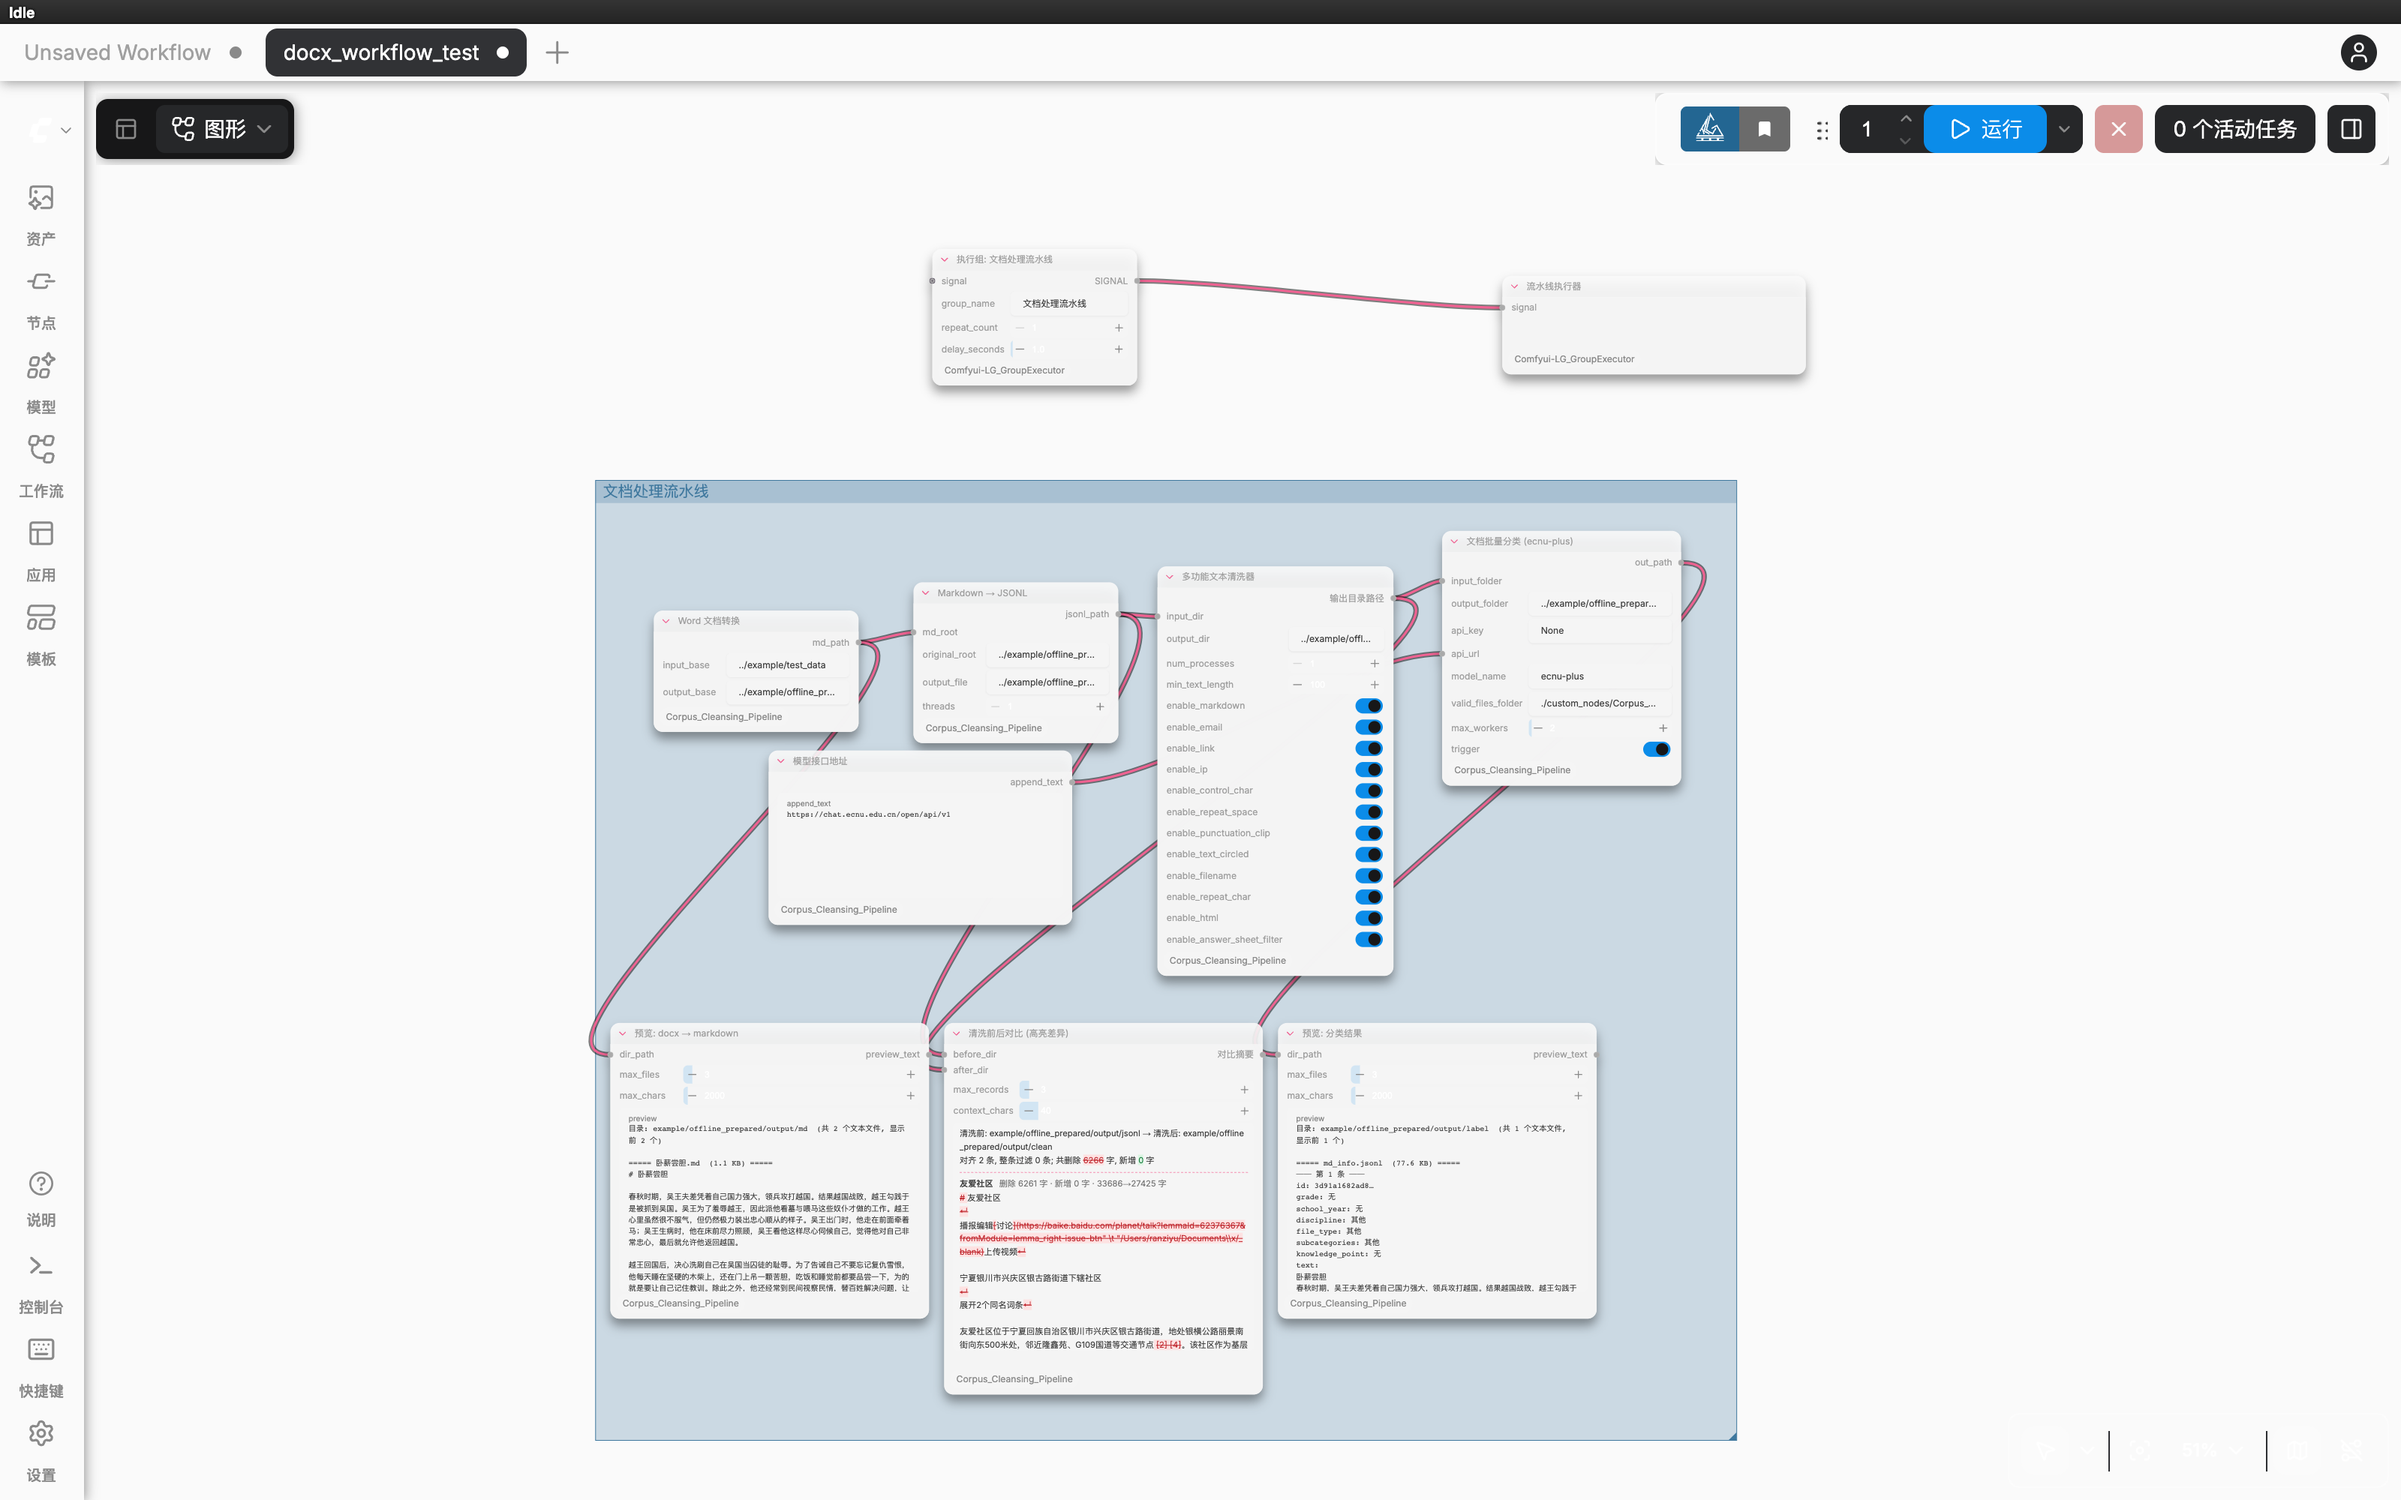
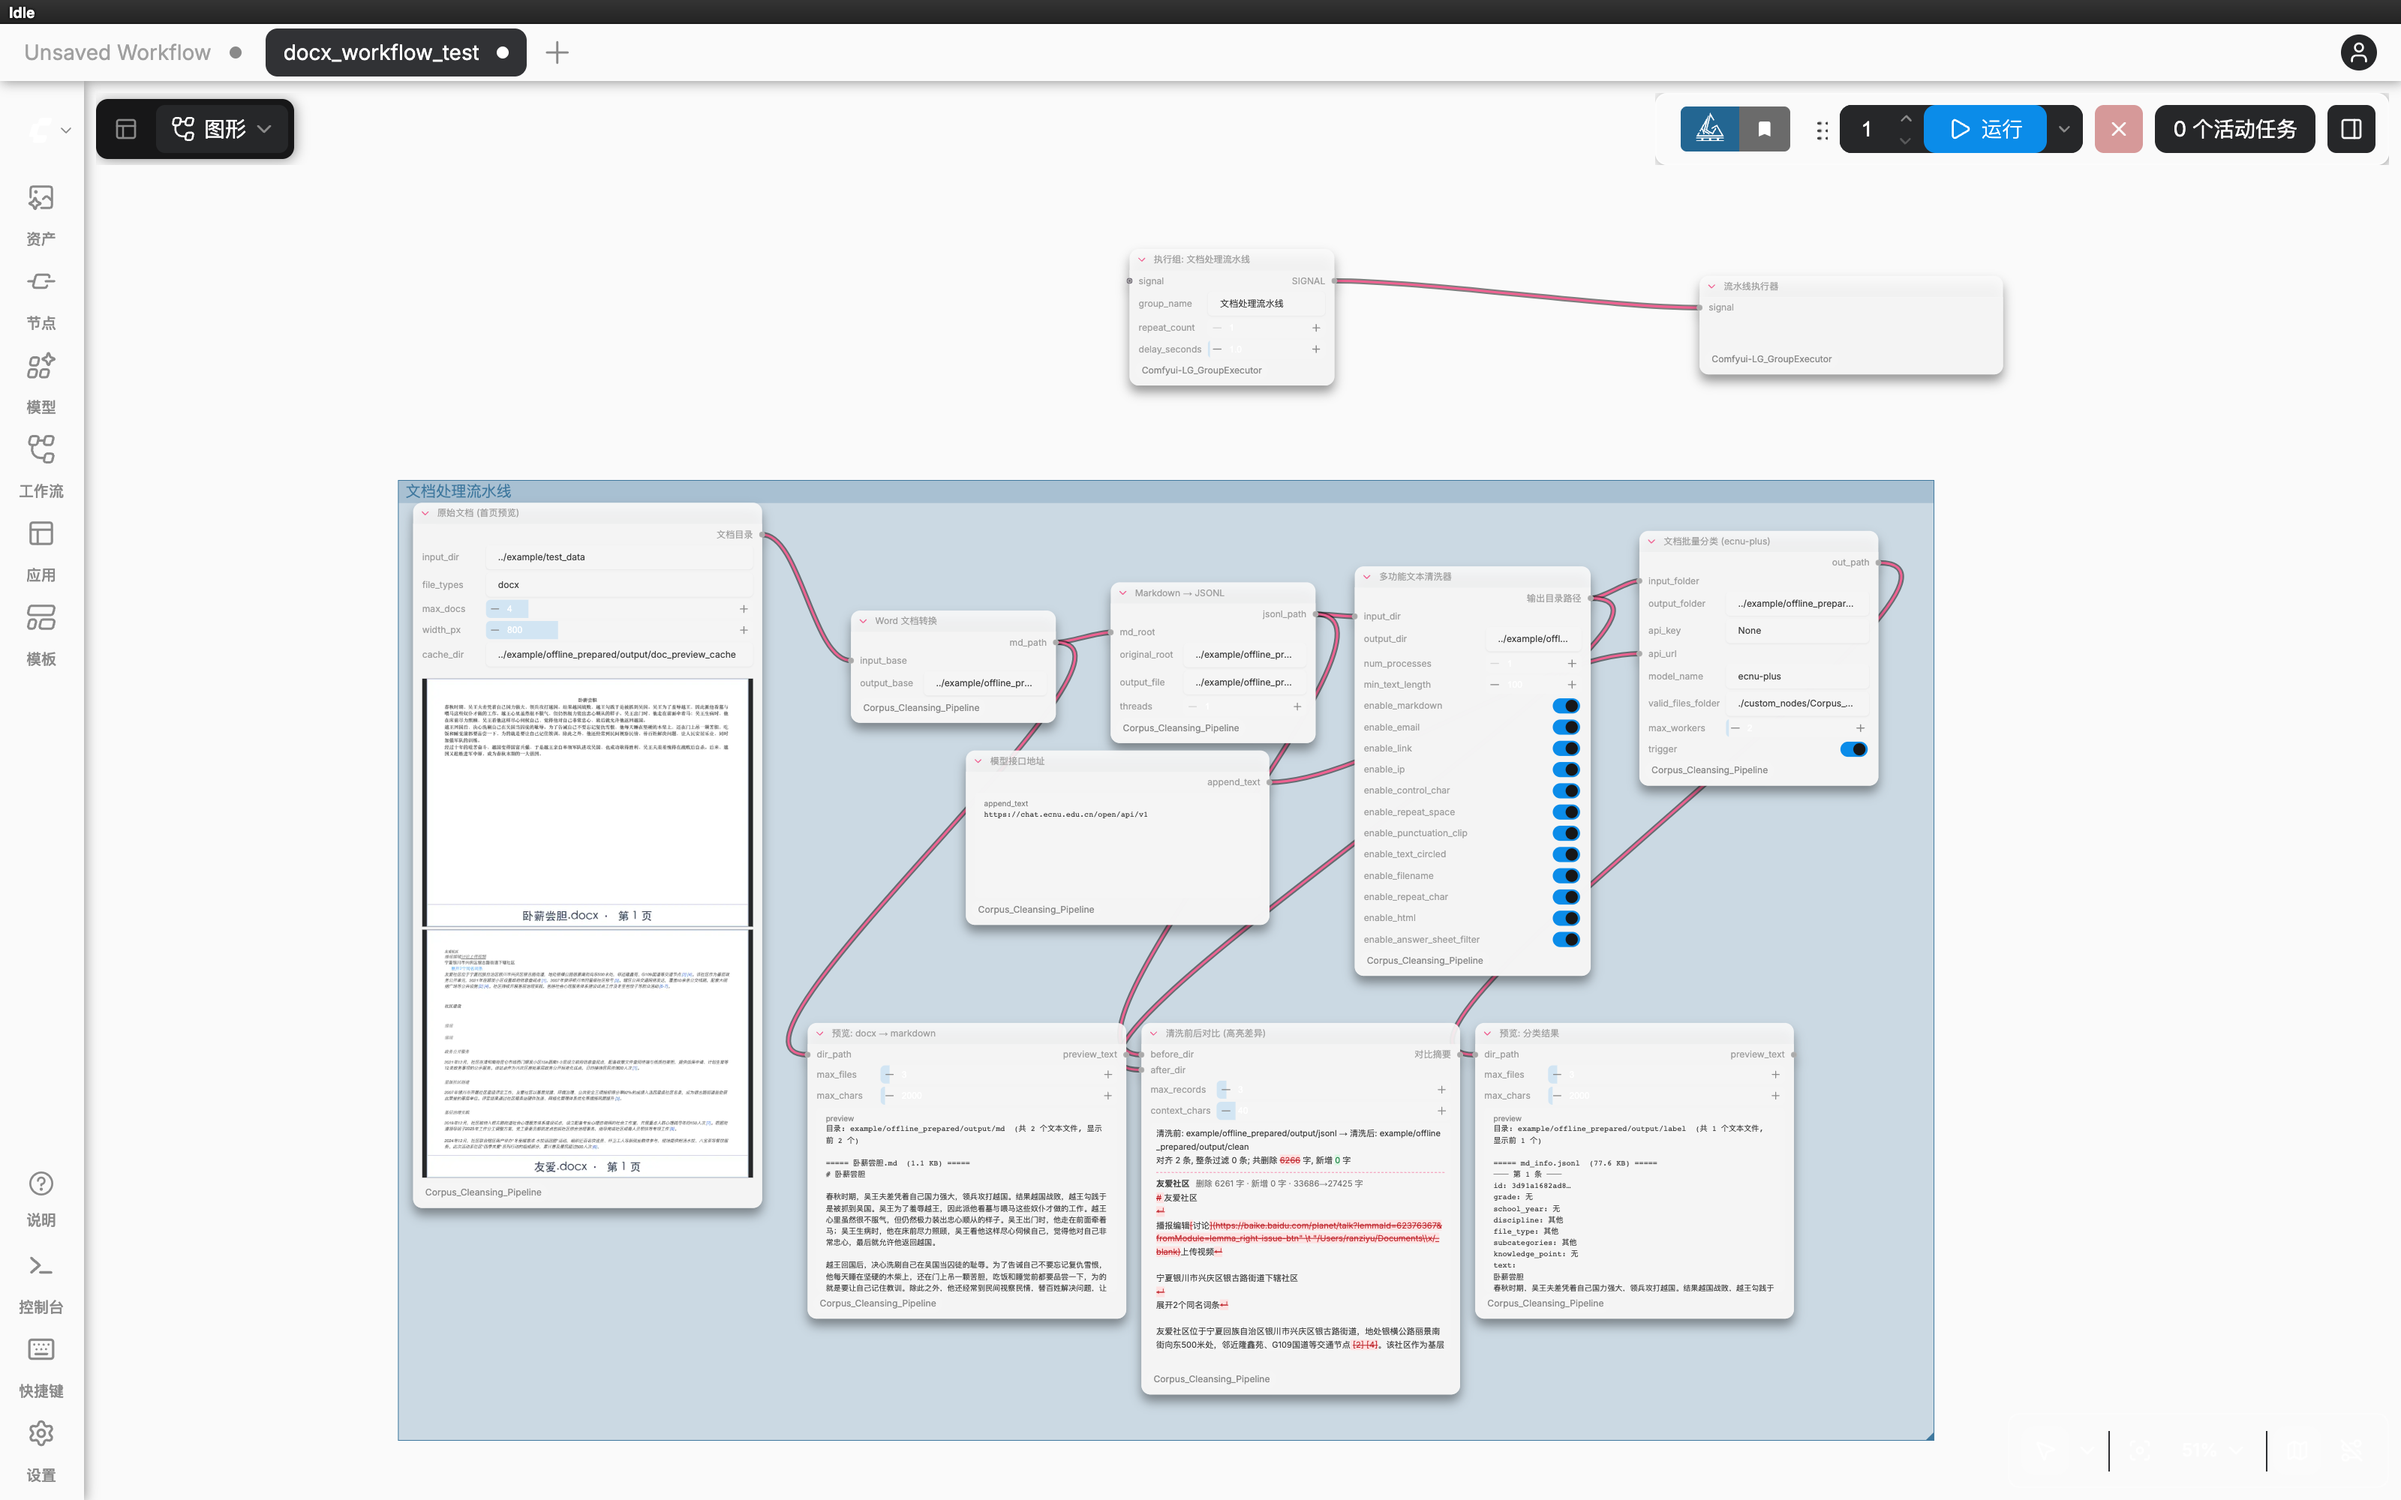
clean for merge

diff --git a/Corpus_Cleansing_Pipeline/doc_preview_node.py b/Corpus_Cleansing_Pipeline/doc_preview_node.py
@@ -1,0 +1,152 @@
+"""文档首页预览: 把目录里 docx / pdf 的第一页渲染成图片, 用 ComfyUI 自带的图片预览显示在节点上.
+
+渲染方式:
+- pdf : pypdfium2 直接渲染第 1 页
+- docx: 先转 pdf 再渲染. 有 LibreOffice (soffice) 就用它 (排版最准, Linux 服务器上用这个);
+        没有的话在 macOS 上用 textutil (系统自带) 转 html, 再用本机 Chrome 无头打印成 pdf.
+渲染结果按文件内容哈希缓存到 cache_dir, 同一文件不重复渲染.
+"""
+import hashlib
+import os
+import shutil
+import subprocess
+import tempfile
+from pathlib import Path
+
+import pypdfium2 as pdfium
+from PIL import Image, ImageDraw, ImageFont
+
+CHROME_CANDIDATES = [
+    os.environ.get("COCLP_CHROME", ""),
+    "/Applications/Google Chrome.app/Contents/MacOS/Google Chrome",
+    shutil.which("google-chrome") or "",
+    shutil.which("chromium") or "",
+]
+CAPTION_FONTS = ["/System/Library/Fonts/PingFang.ttc", "/System/Library/Fonts/STHeiti Medium.ttc",
+                 "/usr/share/fonts/opentype/noto/NotoSansCJK-Regular.ttc"]
+
+
+def file_hash(path):
+    return hashlib.sha256(Path(path).read_bytes()).hexdigest()[:16]
+
+
+def docx_to_pdf(docx_path, work_dir):
+    """docx -> pdf, 返回 pdf 路径"""
+    work_dir = Path(work_dir)
+    soffice = shutil.which("soffice") or shutil.which("libreoffice")
+    if soffice:
+        subprocess.run([soffice, "--headless", "--convert-to", "pdf", "--outdir", str(work_dir), str(docx_path)],
+                       check=True, capture_output=True, timeout=120)
+        return work_dir / (Path(docx_path).stem + ".pdf")
+
+    chrome = next((c for c in CHROME_CANDIDATES if c and os.path.exists(c)), None)
+    if not shutil.which("textutil") or not chrome:
+        raise RuntimeError("渲染 docx 需要 LibreOffice (soffice), 或 macOS textutil + Chrome")
+    html_path, pdf_path = work_dir / "doc.html", work_dir / "doc.pdf"
+    subprocess.run(["textutil", "-convert", "html", "-output", str(html_path), str(docx_path)],
+                   check=True, capture_output=True, timeout=60)
+    # 有的 docx 段落带从右到左 (RTL) 属性, textutil 原样保留, 中文句号会跑到行首; 统一改回从左到右
+    html_text = html_path.read_text(encoding="utf-8", errors="replace")
+    fix_css = "<style>* { direction: ltr !important; unicode-bidi: normal !important; }</style>"
+    html_path.write_text(html_text.replace("</head>", fix_css + "</head>", 1), encoding="utf-8")
+    subprocess.run([chrome, "--headless", "--disable-gpu", "--no-pdf-header-footer", "--print-to-pdf-no-header",
+                    f"--print-to-pdf={pdf_path}", html_path.as_uri()],
+                   check=True, capture_output=True, timeout=120)
+    return pdf_path
+
+
+def render_pdf_first_page(pdf_path, width_px):
+    pdf = pdfium.PdfDocument(str(pdf_path))
+    page = pdf[0]
+    scale = width_px / page.get_width()
+    image = page.render(scale=scale).to_pil().convert("RGB")
+    pdf.close()
+    return image
+
+
+def crop_to_content(image, ratio=0.7):
+    """只保留页面顶部 (高 = 宽 x ratio): 多个文档统一成同样的横向比例, 节点上排得整齐, 缩略图里字也更大"""
+    return image.crop((0, 0, image.width, min(image.height, int(image.width * ratio))))
+
+
+def add_caption(image, caption):
+    """图片下方加一条文件名, 多张图并排时分得清 (找不到中文字体就不加)"""
+    font_path = next((f for f in CAPTION_FONTS if os.path.exists(f)), None)
+    if not font_path:
+        return image
+    font = ImageFont.truetype(font_path, max(14, image.width // 28))
+    bar_h = int(font.size * 2)
+    canvas = Image.new("RGB", (image.width, image.height + bar_h), "white")
+    canvas.paste(image, (0, 0))
+    draw = ImageDraw.Draw(canvas)
+    draw.line([(0, image.height), (image.width, image.height)], fill="#d0d7e2", width=2)
+    draw.text((image.width // 2, image.height + bar_h // 2), caption, fill="#334155", font=font, anchor="mm")
+    # 页面外加一圈细边框, 白底页面放在浅色画布上也看得出边界
+    ImageDraw.Draw(canvas).rectangle([0, 0, canvas.width - 1, canvas.height - 1], outline="#c7d2e0", width=2)
+    return canvas
+
+
+def render_first_page(doc_path, cache_dir, width_px=800):
+    """渲染 docx/pdf 第一页, 返回缓存里的 png 路径"""
+    doc_path = Path(doc_path)
+    cache_png = Path(cache_dir) / f"{doc_path.stem}_{file_hash(doc_path)}_{width_px}_top.png"
+    if cache_png.exists():
+        return cache_png
+    cache_png.parent.mkdir(parents=True, exist_ok=True)
+    with tempfile.TemporaryDirectory() as work_dir:
+        pdf_path = doc_path if doc_path.suffix.lower() == ".pdf" else docx_to_pdf(doc_path, work_dir)
+        image = crop_to_content(render_pdf_first_page(pdf_path, width_px))
+    add_caption(image, f"{doc_path.name}  · 第 1 页").save(cache_png)
+    return cache_png
+
+
+def list_documents(input_dir, file_types):
+    exts = {"." + e.strip().lower().lstrip(".") for e in file_types.split(",") if e.strip()}
+    root = Path(input_dir)
+    files = [root] if root.is_file() else sorted(p for p in root.rglob("*") if p.is_file())
+    return [p for p in files if p.suffix.lower() in exts and not p.name.startswith("~$")]
+
+
+class DocFirstPagePreview:
+    """文档首页预览: 输入目录里每个 docx / pdf 的第一页截图显示在节点上"""
+
+    @classmethod
+    def INPUT_TYPES(cls):
+        return {
+            "required": {
+                "input_dir": ("STRING", {"default": "../example/test_data"}),
+                "file_types": ("STRING", {"default": "docx,pdf"}),
+                "max_docs": ("INT", {"default": 4, "min": 1, "max": 20}),
+                "width_px": ("INT", {"default": 800, "min": 200, "max": 2400, "step": 100}),
+                "cache_dir": ("STRING", {"default": "../example/test_out/doc_preview_cache"}),
+            },
+        }
+
+    RETURN_TYPES = ("STRING",)
+    RETURN_NAMES = ("文档目录",)
+    FUNCTION = "preview"
+    OUTPUT_NODE = True
+    CATEGORY = "MY_NODES/Preview"
+
+    def preview(self, input_dir, file_types, max_docs, width_px, cache_dir):
+        import folder_paths  # ComfyUI 的临时目录, /view 接口从这里读图
+
+        docs = list_documents(input_dir, file_types)[:max_docs]
+        if not docs:
+            raise ValueError(f"{input_dir} 里没有 {file_types} 文件")
+        temp_dir = Path(folder_paths.get_temp_directory()) / "coclp_doc_preview"
+        temp_dir.mkdir(parents=True, exist_ok=True)
+        images = []
+        for doc in docs:
+            png = render_first_page(doc, cache_dir, width_px)
+            shutil.copy(png, temp_dir / png.name)
+            images.append({"filename": png.name, "subfolder": "coclp_doc_preview", "type": "temp"})
+        return {"ui": {"images": images}, "result": (input_dir,)}
+
+
+if __name__ == "__main__":
+    import sys
+    src = sys.argv[1] if len(sys.argv) > 1 else str(Path(__file__).parent.parent / "example/test_data")
+    out = sys.argv[2] if len(sys.argv) > 2 else str(Path(__file__).parent.parent / "example/test_out/doc_preview_cache")
+    for doc in list_documents(src, "docx,pdf"):
+        print(render_first_page(doc, out))

diff --git a/example/offline_prepared/make_offline_docx_workflow.py b/example/offline_prepared/make_offline_docx_workflow.py
@@ -99,6 +99,32 @@ def use_diff_for_clean_preview(workflow, extra_height=100):
         group["bounding"][3] += extra_height
 
 
+def add_doc_first_page_preview(workflow, width=460, height=900, gap=40):
+    """在 "Word 文档转换" 左边加 "文档首页预览" (显示原始 docx 第一页), 输出连到它的 input_base; 分组向左扩"""
+    docx_to_md = find_node(workflow, "DocxToMarkdown")
+    group = next(g for g in workflow["groups"] if g["title"] == GROUP_TITLES["docx_pipeline"])
+    gx, gy = group["bounding"][0], group["bounding"][1]
+    node_x = gx - width - gap
+    group["bounding"][0] = node_x - 20
+    group["bounding"][2] += width + gap + 20
+
+    node_id = workflow["last_node_id"] + 1
+    workflow["last_node_id"] = node_id
+    preview = {
+        "id": node_id, "type": "DocFirstPagePreview", "title": "原始文档 (首页预览)",
+        "pos": [node_x, gy + 60], "size": [width, height], "flags": {}, "order": 0, "mode": 0,
+        "inputs": [], "outputs": [{"name": "文档目录", "type": "STRING", "links": None}],
+        "properties": {"Node name for S&R": "DocFirstPagePreview"},
+        # [input_dir, file_types, max_docs, width_px, cache_dir]
+        "widgets_values": [INPUT_DIR, "docx", 4, 800, f"{OUTPUT_ROOT}/doc_preview_cache"],
+    }
+    workflow["nodes"].append(preview)
+    # input_base 从控件改成连线输入
+    docx_to_md.setdefault("inputs", []).append(
+        {"name": "input_base", "type": "STRING", "widget": {"name": "input_base"}, "link": None})
+    add_link(workflow, preview, 0, docx_to_md, len(docx_to_md["inputs"]) - 1, "STRING")
+
+
 def build_workflow():
     workflow = json.loads(SRC.read_text(encoding="utf-8"))
     workflow["id"] = "0ff1e5a0-d0c5-4b1d-9c3e-5c2e7a1b0d01"  # 和 docx_workflow_test 区分, 可同时打开
@@ -120,6 +146,8 @@ def build_workflow():
             node["title"] = f"执行组: {node['widgets_values'][0]}"
     for group in workflow["groups"]:
         group["title"] = GROUP_TITLES.get(group["title"], group["title"])
+
+    add_doc_first_page_preview(workflow)  # 放在组改名之后, 按中文组名找分组
 
     DST.write_text(json.dumps(workflow, ensure_ascii=False, indent=2), encoding="utf-8")
     print(f"写入 {DST}")

diff --git a/Corpus_Cleansing_Pipeline/__init__.py b/Corpus_Cleansing_Pipeline/__init__.py
@@ -18,6 +18,7 @@ from .unzip_node import UNZIP
 from .whisper_novad_node import WhisperNoVADTranscribeNode
 from .preview_dir_node import PreviewOutputDir
 from .compare_diff_node import CompareTextDiff
+from .doc_preview_node import DocFirstPagePreview
 
 # web/preview_dir.js 负责把 PreviewOutputDir 的 ui.text 显示在节点上
 WEB_DIRECTORY = "./web"
@@ -46,6 +47,7 @@ NODE_CLASS_MAPPINGS = {
     "WhisperNoVADTranscribeNode": WhisperNoVADTranscribeNode,
     "PreviewOutputDir": PreviewOutputDir,
     "CompareTextDiff": CompareTextDiff,
+    "DocFirstPagePreview": DocFirstPagePreview,
 
 }
 
@@ -84,6 +86,7 @@ NODE_DISPLAY_NAME_MAPPINGS = {
     "WhisperNoVADTranscribeNode": "Whisper 批量转写节点 (含VAD+简体)",
     "PreviewOutputDir": "预览输出目录",
     "CompareTextDiff": "清洗前后对比",
+    "DocFirstPagePreview": "文档首页预览",
 }
 
 
